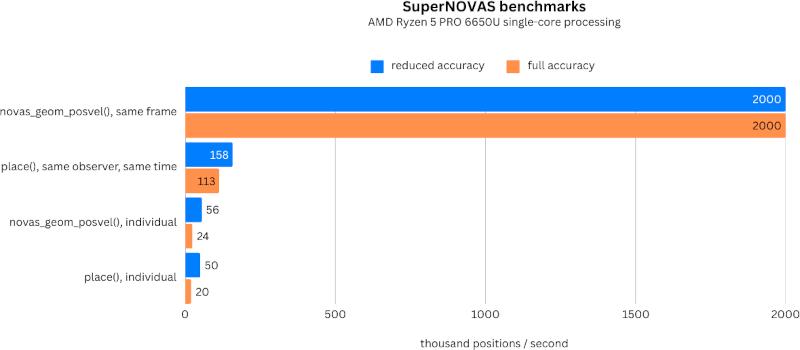
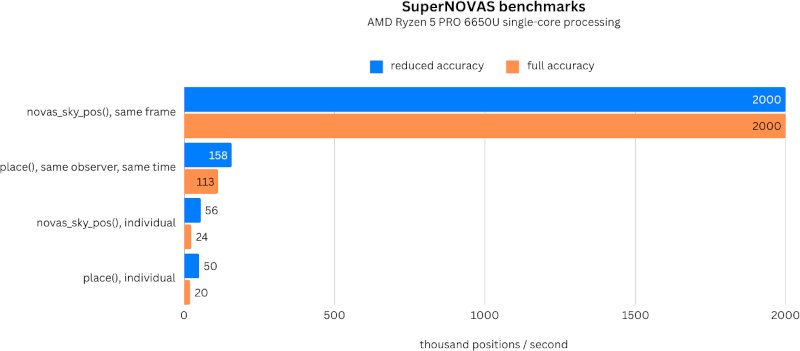
Fig 2. tweak and site update

diff --git a/README.md b/README.md
@@ -879,10 +879,10 @@ gravitational deflection corrections from the observer's point of view.
  |                                     |   full    |           20106 |
  
 
-As one may observe, the SuperNOVAS `novas_geom_posvel()` significantly outperforms the legacy `place()`, when 
-repeatedly calculating positions for sources for the same instant of time and same observer location, providing up to 
-2 orders of magnitude faster performance than for inidividual observing times and/or observer locations. Also, when 
-observing frames are reused, the performance is essentially independent of the accuracy. By contrast, calculations for 
+As one may observe, the SuperNOVAS `novas_sky_pos()` significantly outperforms the legacy `place()`, when repeatedly 
+calculating positions for sources for the same instant of time and same observer location, providing up to 2 orders of 
+magnitude faster performance than for inidividual observing times and/or observer locations. Also, when observing 
+frames are reused, the performance is essentially independent of the accuracy. By contrast, calculations for 
 individual observing times or observer locations are generally around 2x faster if reduced accuracy is sufficient.
 
 | ![SuperNOVAS benchmarks](resources/SuperNOVAS-benchmark.png) |
